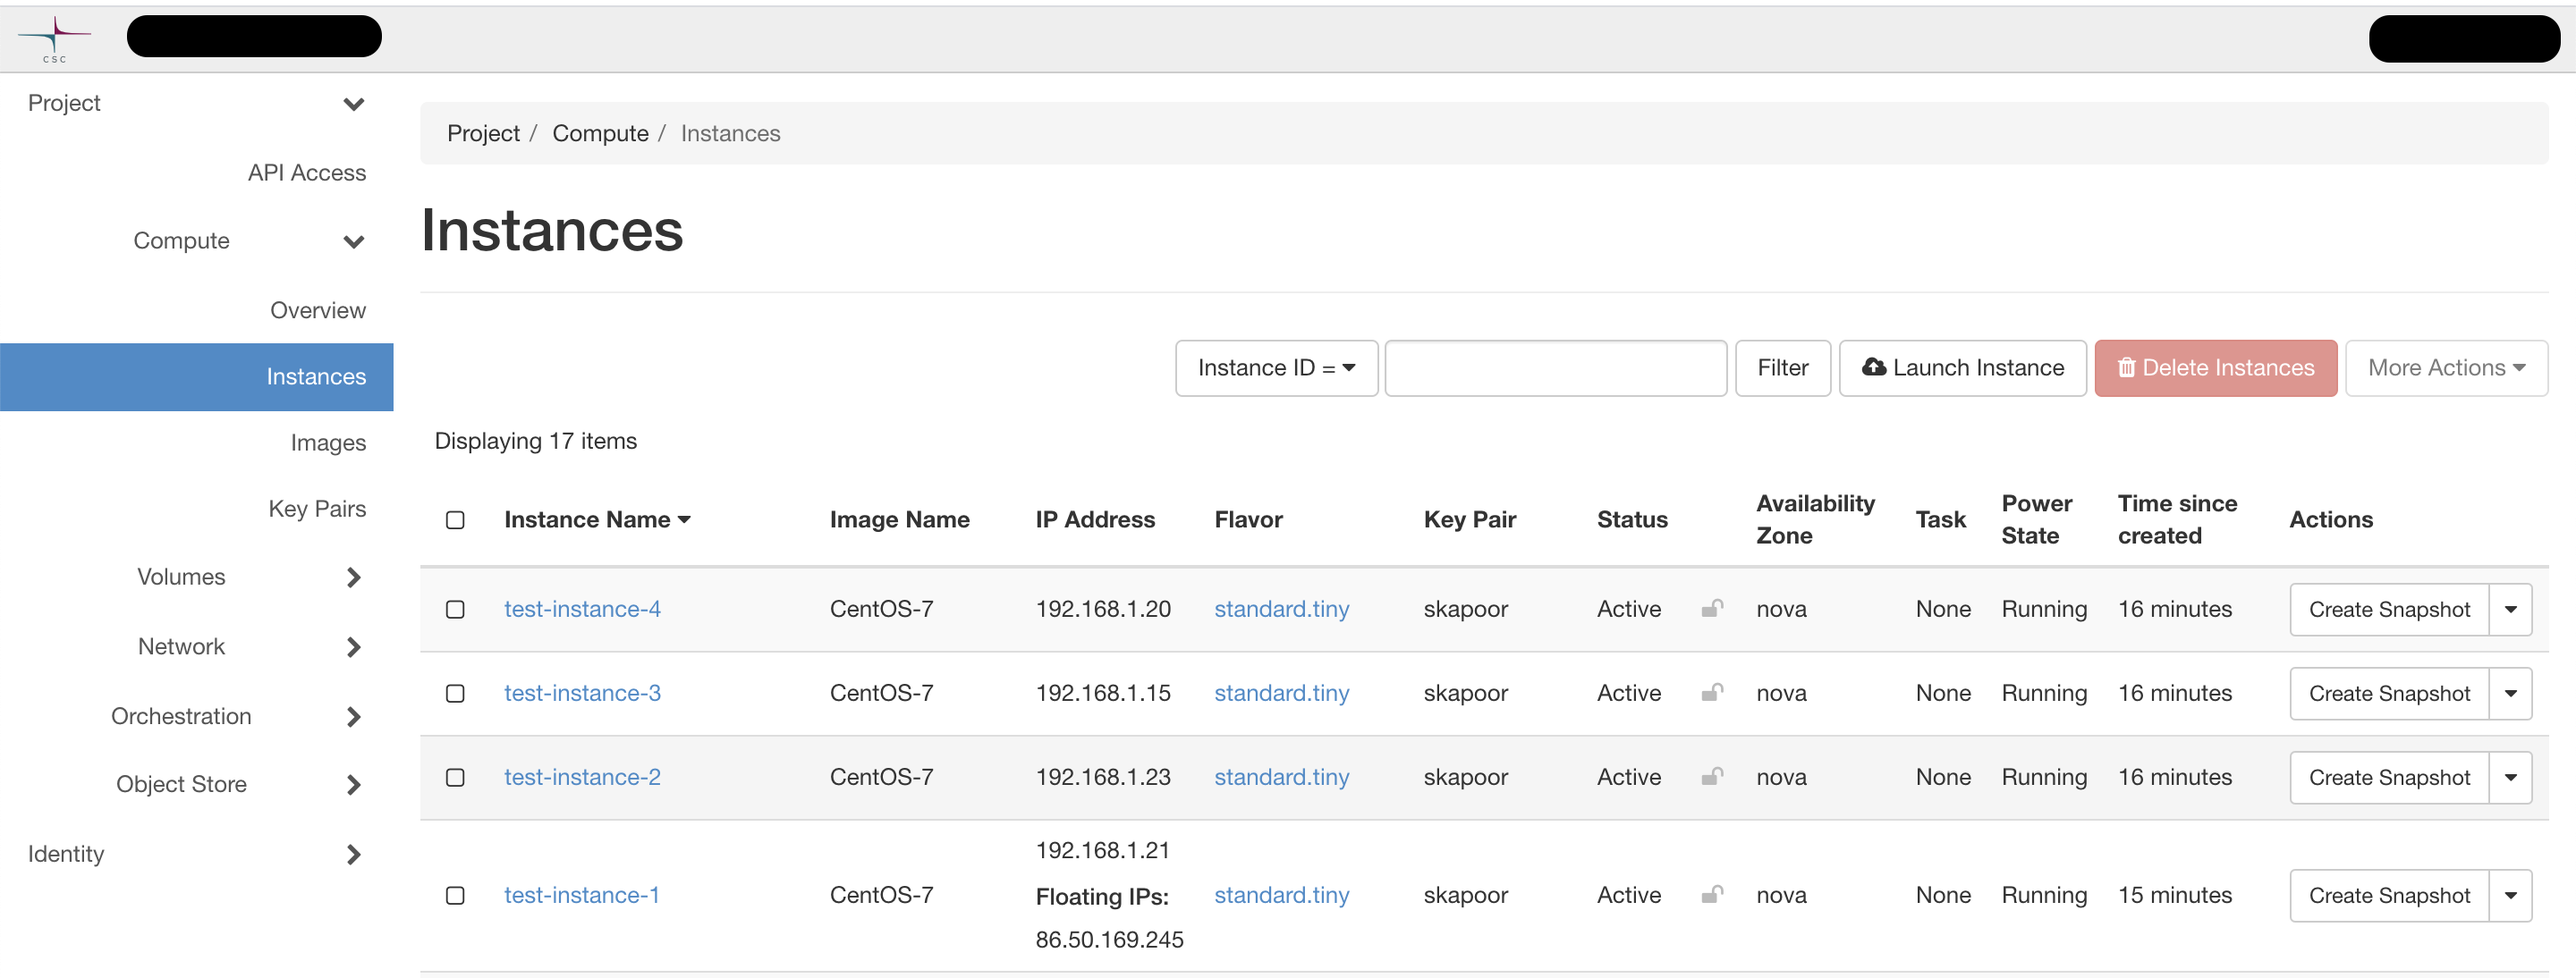
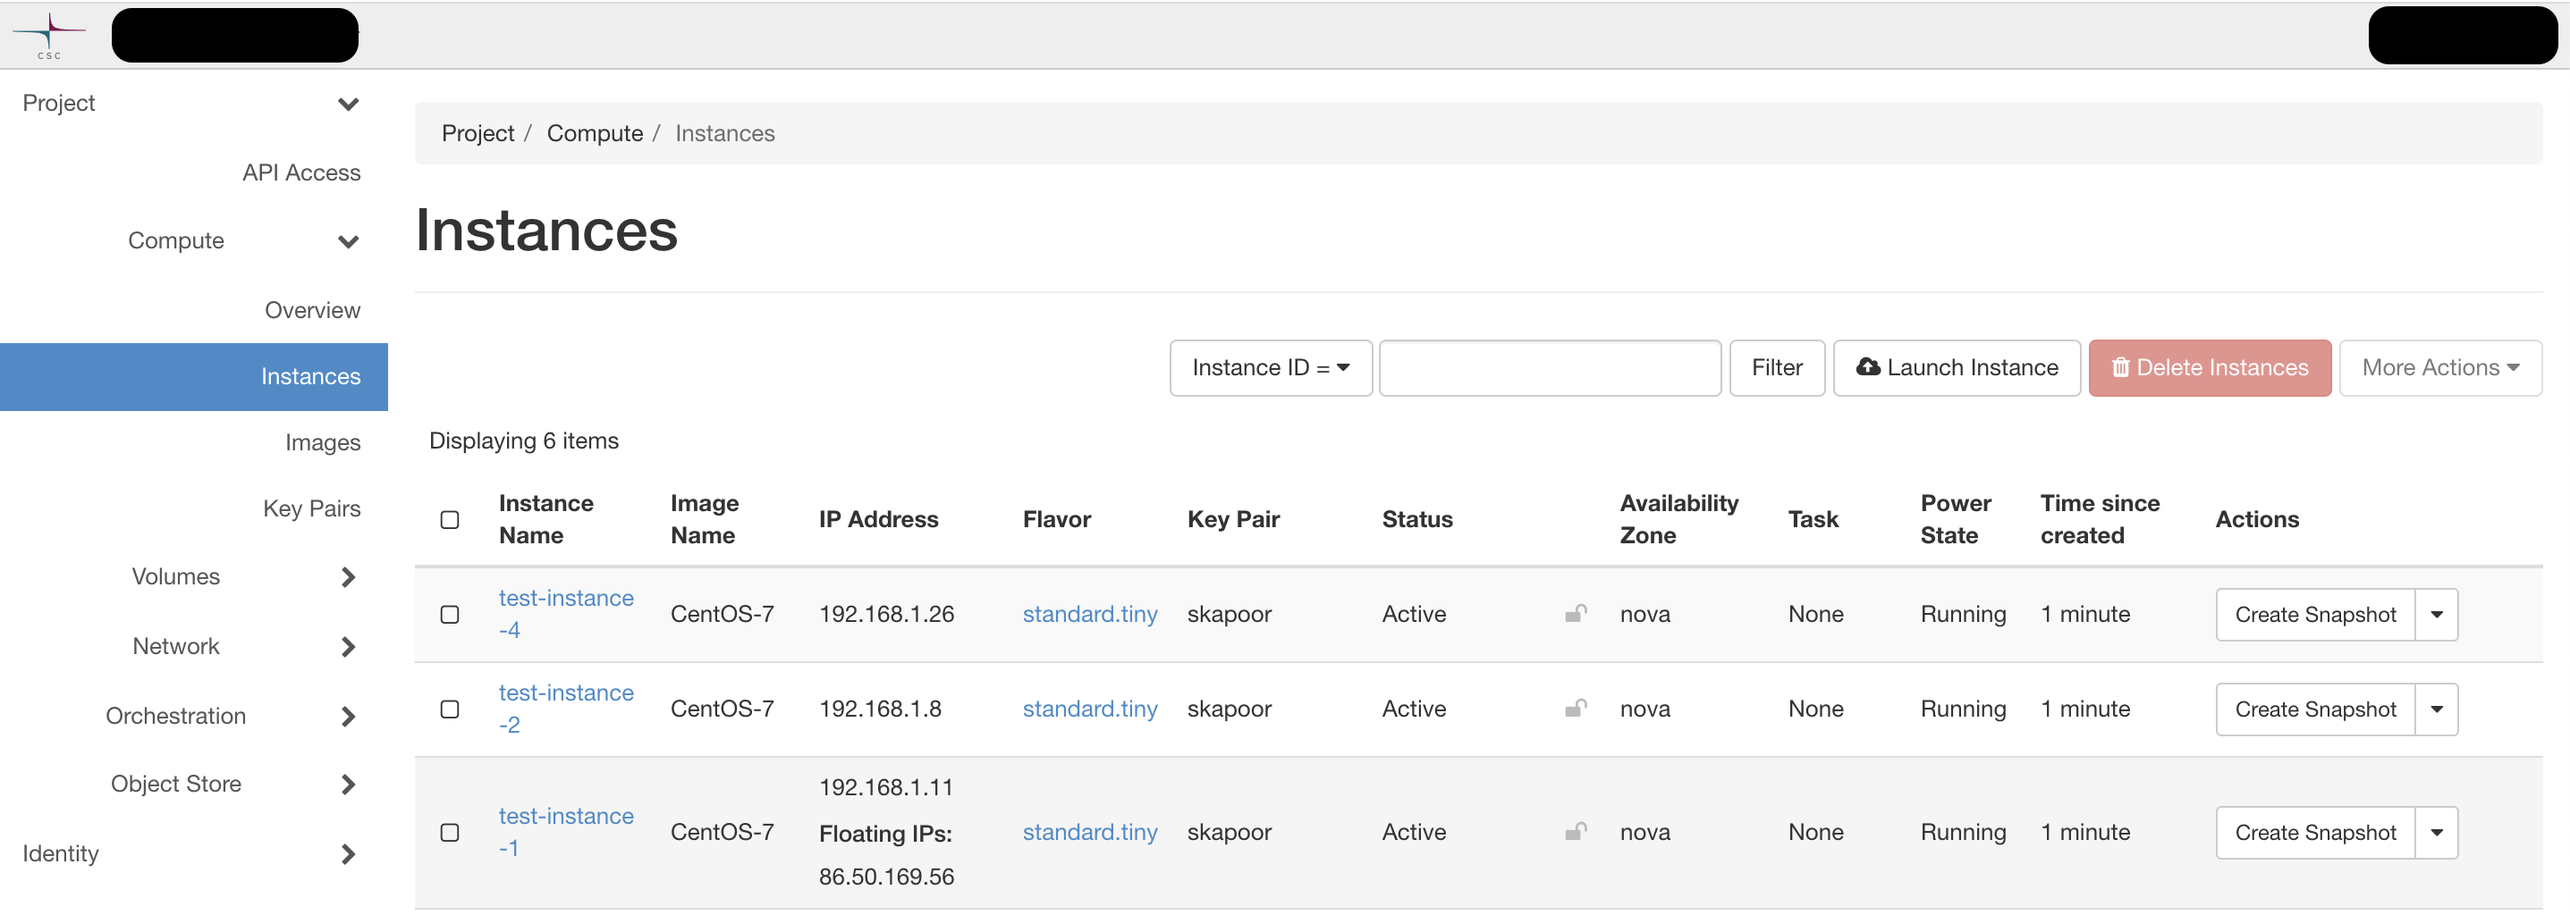
Add floating-ip from Pouta-Production

diff --git a/docs/cloud/pouta/connecting-to-vm.md b/docs/cloud/pouta/connecting-to-vm.md
@@ -75,7 +75,7 @@ in the *Instances* view of the cPouta/ePouta web interface.
 The figure above shows a sample of the Instances view in cPouta web
 interface. In this case, we can see that a virtual machine called
 *test-instance-1* is active and running. The machine has two IP
-addresses, of which the address 86.50.169.245 is the public one. The
+addresses, of which the address 86.50.169.56 is the public one. The
 machine uses a keypair called *skapoor*.
 
 The ePouta web interface looks similar but the instances in ePouta have only
